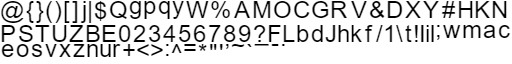
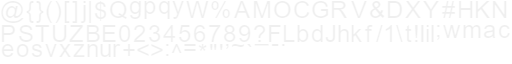
webgl fonts update

Changed region(s): [[0.0, 0.0, 1.0, 0.6562], [0.0, 0.6875, 0.5625, 0.9062]]

diff --git a/src/webgl/main.js b/src/webgl/main.js
@@ -4,22 +4,23 @@ include('/webgl/webgl.js');
 
 function App() {
 	this.cvs = document.querySelector('#cvs');
-	// this.cvs.width = 640;
-	// this.cvs.height = 480;
+	this.cvs.width = 640;
+	this.cvs.height = 480;
 	this.cnt = document.querySelector('#cvs-container');
 	this.con = document.querySelector('#con');
 	this.menu = document.querySelector('#menu');
 	this.the2triangles = null;
 	this.program = null;
 	this.uniforms = {
-		uFontHeight: { type:webGL.FLOAT, value:0 },
+		uFontSize: { type:webGL.FLOAT3V, value: new Float32Array(3) },
 		//uFontData: { type:webGL.FLOAT3V, value: new Float32Array(3*64) },
 
-		uText: { type:webGL.FLOAT3V, value: new Float32Array(3*255) },
+		uText: { type:webGL.FLOAT4V, value: new Float32Array(4*255) },
 		uTextLength: { type:webGL.INT, value: 1 },
-		uColor: { type:webGL.FLOAT4V, value: new Float32Array([0.5, 0.7, 0.8, 1.0]) },
+		uColor: { type:webGL.FLOAT4V, value: new Float32Array([0.3, 0.6, 1.0, 1.0]) },
+		uBgColor: { type:webGL.FLOAT4V, value: new Float32Array([0.8, 0.7, 0.4, 0.8]) },
 
-		uFrame: { type:webGL.FLOAT, value: 0 },
+		uFrame: { type:webGL.INT, value: 0 },
 		uSize: { type:webGL.FLOAT2V, value: new Float32Array([this.cvs.width, this.cvs.height]) },
 
 		uMousePos: { type:webGL.FLOAT2V, value: new Float32Array([0.0, 0.0]) }
@@ -39,11 +40,15 @@ App.prototype.update = function update(f) {
 
 };
 App.prototype.render = function render(f) {
-	gl.clearColor(0x08/256, 0x18/256, 0x20/256, 1.0);
+	gl.clearColor(0x20/256, 0x60/256, 0x80/256, 1.0);
 	gl.clear(gl.COLOR_BUFFER_BIT | gl.DEPTH_BUFFER_BIT);
 	this.uniforms.uFrame.value = f;
 	this.program.updateUniform('uFrame');
+	//gl.colorMask(true, true, true, false);
 	gl.drawArrays(gl.TRIANGLE_STRIP, 0, 4);
+	// gl.clearColor(1, 1, 1, 1);
+	// gl.colorMask(false, false, false, true);
+	// gl.clear(gl.COLOR_BUFFER_BIT);
 };
 App.prototype.resize = function resize() {
 	this.menu.width = '16em';
@@ -60,27 +65,27 @@ App.prototype.resize = function resize() {
 App.prototype.setText = function setText(text) {
 	this.uniforms.uTextLength.value = text.length;
 	var ix = 0;
-	var offset = 0;
 	for (var i=0; i<text.length; i++) {
 		var char = text.charAt(i);
 		var font = this.fontData.characters[char];
-		console.log(char + JSON.stringify(font));
-		this.uniforms.uText.value[ix++] = font.x/this.fontData.width;
-		this.uniforms.uText.value[ix++] = font.y/this.fontData.height;
-		this.uniforms.uText.value[ix++]	= offset;
-		offset += font.width;
+		this.uniforms.uText.value[ix++] = font.x;
+		this.uniforms.uText.value[ix++] = font.y;
+		this.uniforms.uText.value[ix++]	= font.width;
+		this.uniforms.uText.value[ix++]	= font.height;
 	}
-console.log(this.uniforms.uText.value);
 }
 
 App.prototype.prepareScene = async function prepareScene() {
 	// create "canvas" of 2 triangles
-	const positions = [-0.9,  0.9,  0.9,  0.9,  -0.9, -0.9,  0.9, -0.9];
+	const positions = [-1.0,  1.0,  1.0,  1.0,  -1.0, -1.0,  1.0, -1.0];
 	this.the2triangles = gl.createBuffer();
 	gl.bindBuffer(gl.ARRAY_BUFFER, this.the2triangles);
 	gl.bufferData(gl.ARRAY_BUFFER, new Float32Array(positions), gl.STATIC_DRAW);
 	gl.enableVertexAttribArray(0);
 	gl.vertexAttribPointer(0, 2, gl.FLOAT, false, 0, 0);
+
+	gl.enable(gl.BLEND);
+	gl.blendFunc(gl.SRC_ALPHA, gl.ONE_MINUS_SRC_ALPHA);
 
 	var resources = await load([
 		{ url: `/webGL/default.vs`, contentType: 'x-shader/x-vertex', shaderType: gl.VERTEX_SHADER },
@@ -95,20 +100,15 @@ App.prototype.prepareScene = async function prepareScene() {
 	var texture = gl.createTexture();
 	gl.bindTexture(gl.TEXTURE_2D, texture);
 	gl.texImage2D(gl.TEXTURE_2D, 0, gl.RGBA, gl.RGBA, gl.UNSIGNED_BYTE, resources[3].node);
+	gl.texParameteri(gl.TEXTURE_2D, gl.TEXTURE_MIN_FILTER, gl.LINEAR_MIPMAP_NEAREST);
+	gl.texParameteri(gl.TEXTURE_2D, gl.TEXTURE_MAG_FILTER, gl.LINEAR_MIPMAP_NEAREST);
 	gl.generateMipmap(gl.TEXTURE_2D);
-	this.uniforms.uFontHeight.value = resources[2].data.size;
+	this.uniforms.uFontSize.value[0] = resources[2].data.width;
+	this.uniforms.uFontSize.value[1] = resources[2].data.height;
+	this.uniforms.uFontSize.value[2] = resources[2].data.size;
 
 	this.fontData = resources[2].data;
-	// for (var i in fontData.characters) {
-	// 	var char = fontData.characters[i];
-	// 	var ix = 3*(i.charCodeAt(0) - 32);
-	// 	if (char.width != undefined) {
-	// 		this.uniforms.uFontData.value[ix++] = char.x;
-	// 		this.uniforms.uFontData.value[ix++] = char.y;
-	// 		this.uniforms.uFontData.value[ix] = char.width;
-	// 	}
-	// }
-	this.setText('Hello');
+	this.setText('@ H-e-l-l-o   W-o-r-l-d @');
 
 	var shaders = {};
 	shaders[gl.VERTEX_SHADER] = resources[0].data;
@@ -127,7 +127,7 @@ async function onpageload() {
 		await app.prepareScene(gl);
 		Dbg.prln('Initialized.');
 
-		//app.resize();
+		app.resize();
 
 		GE.processInputs = f => app.processInputs(f);
 		GE.update = f => app.update(f);

diff --git a/src/webgl/base.css b/src/webgl/base.css
@@ -9,8 +9,6 @@ body {
 }
 
 #cvs {
-	width:320;
-	height:200;
 	background-color:black
 }
 
